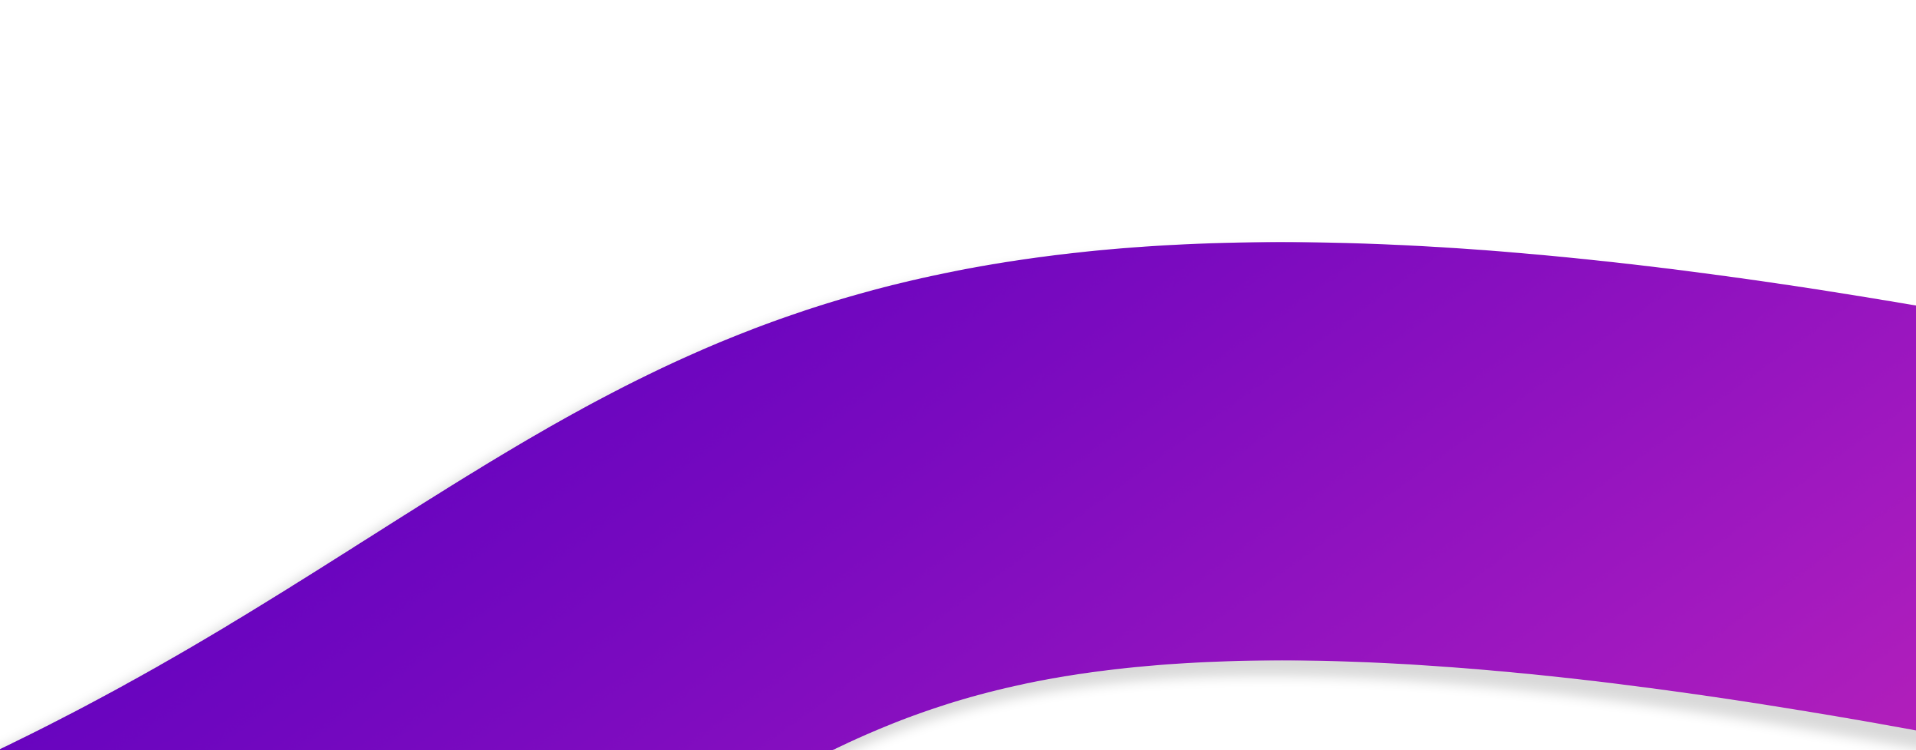
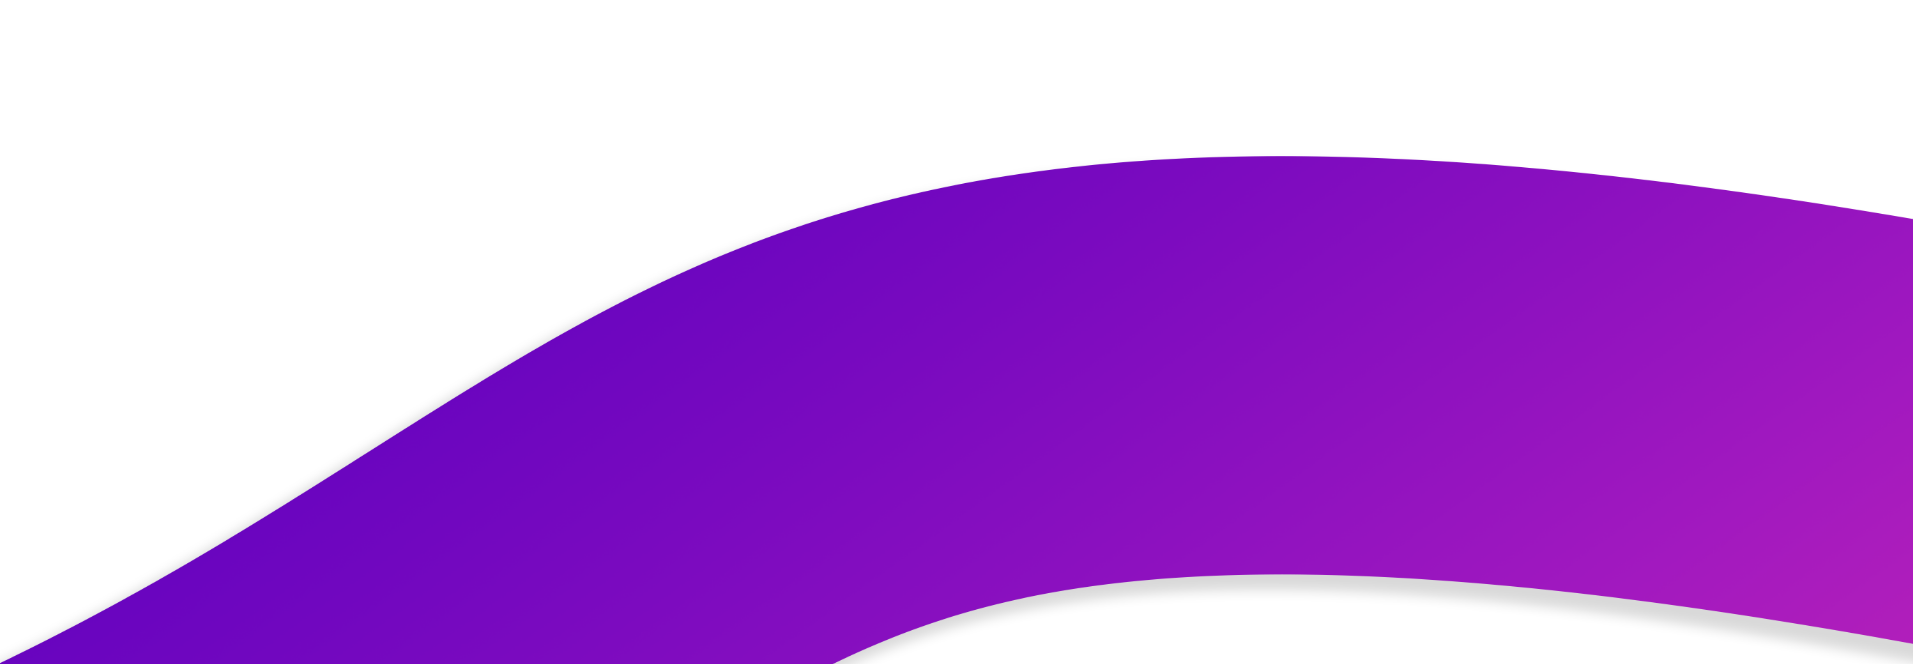
Updated images

diff --git a/pages/index.tsx b/pages/index.tsx
@@ -57,11 +57,11 @@ const Home = () => (
 					</div>
 				</div>
 			</div>
-			<div className="sfd-no-long-read-section w-full bg-white mt-4">
+			<div className="sfd-no-long-read-section w-full bg-white">
 				<div className="max-w-screen-xl mx-auto px-4 sm:px-6 lg:px-10 pt-1">
 					<div className="md:mt-10">
 						<ul className="md:grid md:grid-cols-2 md:col-gap-8 md:row-gap-10">
-							<li className="flex md:pt-10">
+							<li className="flex md:pt-14">
 								<div className="flex">
 									<div className="ml-2 md:ml-28">
 										<h4 className="text-3xl leading-6 font-bold sfd-purple-text md:text-white">No long reads</h4>
@@ -73,8 +73,9 @@ const Home = () => (
 							</li>
 							<li className="mt-7">
 								<div className="flex">
-									<div className="mx-auto flex md:justify-end">
-										<img className="w-full sm:mx-auto sm:w-8/12 md:w-3/4" src="/barber.png"></img>
+									<div className="mx-auto flex justify-center md:justify-end">
+										<img className="sm:hidden" src="/barber.png"></img>
+										<img className="hidden sm:block sm:mx-auto sm:w-3/4" src="/barber@2x.png"></img>
 									</div>
 								</div>
 							</li>
@@ -120,7 +121,8 @@ const Home = () => (
 							<li className="mt-4">
 								<div className="grid md:flex">
 									<div className="flex justify-center md:justify-end">
-										<img className="w-3/5 sm:w-3/5 md:w-8/12" src="/mobile.png"></img>
+										<img className="sfd-mobile-img sm:hidden" src="/mobile.png"></img>
+										<img className="w-full hidden sm:block sm:w-3/5 md:w-8/12" src="/mobile@2x.png"></img>
 										<div className="sm:flex justify-center hidden md:hidden ml-5">
 											<img className="mr-1 w-28 cursor-pointer" src="/apple.svg"></img>
 											<img className="ml-1 w-28 cursor-pointer" src="/android.svg"></img>
@@ -135,9 +137,9 @@ const Home = () => (
 							</li>
 							<li className="flex">
 								<div className="flex">
-									<div className="mt-10 md:mt-16">
+									<div className="mt-8">
 										<img className="w-36 pl-2" src="/Logo-With-Text.svg"></img>
-										<p className="mt-6 pl-2 pr-12 text-base md:text-lg leading-6 text-gray-800 lg:text-gray-800">
+										<p className="mt-5 pl-2 pr-12 text-base md:text-lg leading-6 text-gray-800 lg:text-gray-800">
 											Creative news templates and custom made videos with engaging audio give your ears and eyes a treat. We are never done improving and hope to offer you something exciting every time you open the So.Fa.Dog app.
               							</p>
 										<div className="hidden md:flex mt-28">

diff --git a/styles/globals.css b/styles/globals.css
@@ -57,7 +57,7 @@
 /* Medium (md) */
 @media (min-width: 768px) {
     .sfd-no-long-read-section {
-        background: url('/gradient_line_l_to_r.png');
+        background: url('/gradient_line_l_to_r_large@2x.png');
         background-size: 100% 100%;
         background-repeat: no-repeat;
         background-position: bottom;
